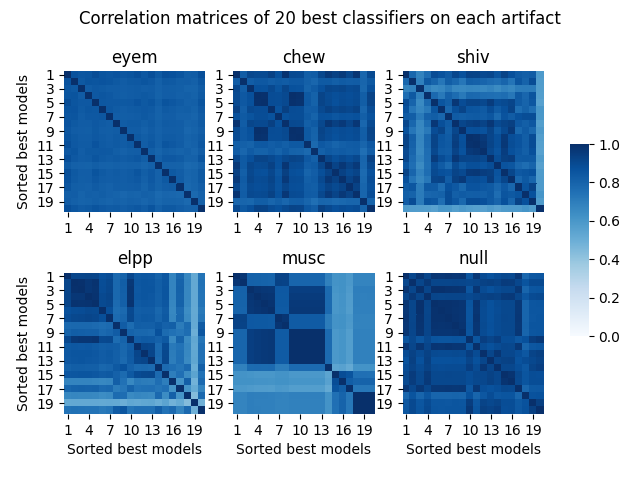
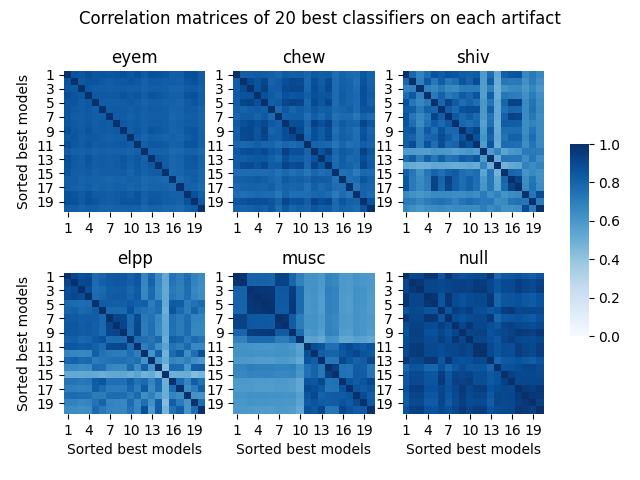
ensemble_updated

diff --git a/evaluation/ensemble_results.py b/evaluation/ensemble_results.py
@@ -440,13 +440,13 @@ class getResultsEnsemble:
                             height=height,
                             width=w,
                             color=colorlist[i],
-                            label=f"{technique} (SMOTE: mixed)")
+                            label=f"{technique}")
                 else:
                     plt.bar(x=X_axis + w * i,
                             height=height,
                             width=w,
                             color=colorlist[i],
-                            label=f"{technique} (SMOTE {smote_ratio - 1})")
+                            label=f"{technique}")
 
                 plt.errorbar(x=X_axis + w * i, y=height,
                              yerr=yerr,
@@ -466,8 +466,8 @@ class getResultsEnsemble:
             plt.ylabel(measure)
 
             if a == 0:
-                plt.legend(loc='center right', bbox_to_anchor=(1.36, 0.5))
-                plt.subplots_adjust(bottom=0.2, right=0.775)
+                plt.legend(loc='center right', bbox_to_anchor=(1.33, 0.5))
+                plt.subplots_adjust(right=0.775)
 
         if smote_ratio == None:
             img_path = f"{(self.slash).join([self.dir, 'Plots', self.experiment_name, measure])}{self.slash}augTechniquesComparison_SMOTEmixed_Mean={mean}.png"
@@ -742,10 +742,10 @@ if __name__ == '__main__':
     ensembleExp = getResultsEnsemble(dir, experiments=experiments, experiment_name=experiment_name, merged_file=False,
                                      windowsOS=windowsOS)
     measure = 'balanced_acc'
-    N_best = 20
+    N_best = 100
     withFolds = True
 
-    loadedBestDictName = slash + "orderedPredictions_20balanced_acc_foldsTrue.npy"  # Either None or file-name
+    loadedBestDictName = slash + "orderedPredictions_100balanced_acc_foldsTrue.npy"  # Either None or file-name
     bestDictPicklepath = (slash).join([dir, "results", experiment_name])
 
     if loadedBestDictName == None:
@@ -763,6 +763,7 @@ if __name__ == '__main__':
     # y_pred_dict = ensembleExp.getPredictionsEnsemble(best_pred_dict=bestDict, experiments=experiments, N_best=N_best, artifacts=None)
     # y_pred_dict = ensembleExp.compressDict(y_pred_dict)
 
+    N_best = 20
     corr_matrix = ensembleExp.getCorrelation(bestDict=bestDict, N_best=N_best,
                                                  withFolds=withFolds)  # , latex=True)
 
@@ -817,9 +818,9 @@ if __name__ == '__main__':
 
     exps = ['control', 'ensemble']
 
-    cmap = plt.get_cmap('coolwarm')
-    colorlist = [cmap(i) for i in np.linspace(0.1, 0.9, len(exps))]
-    colorlist = ["lightsteelblue", "lightslategrey"]
+    cmap = plt.get_cmap('Blues')
+    colorlist = [cmap(i) for i in np.linspace(0.3, 0.8, len(exps))]
+    #colorlist = ["lightsteelblue", "darkcyan"]
     for indv_art, artifact in enumerate(ensembleExp.artifacts):
         for i, exp in enumerate(exps):
 
